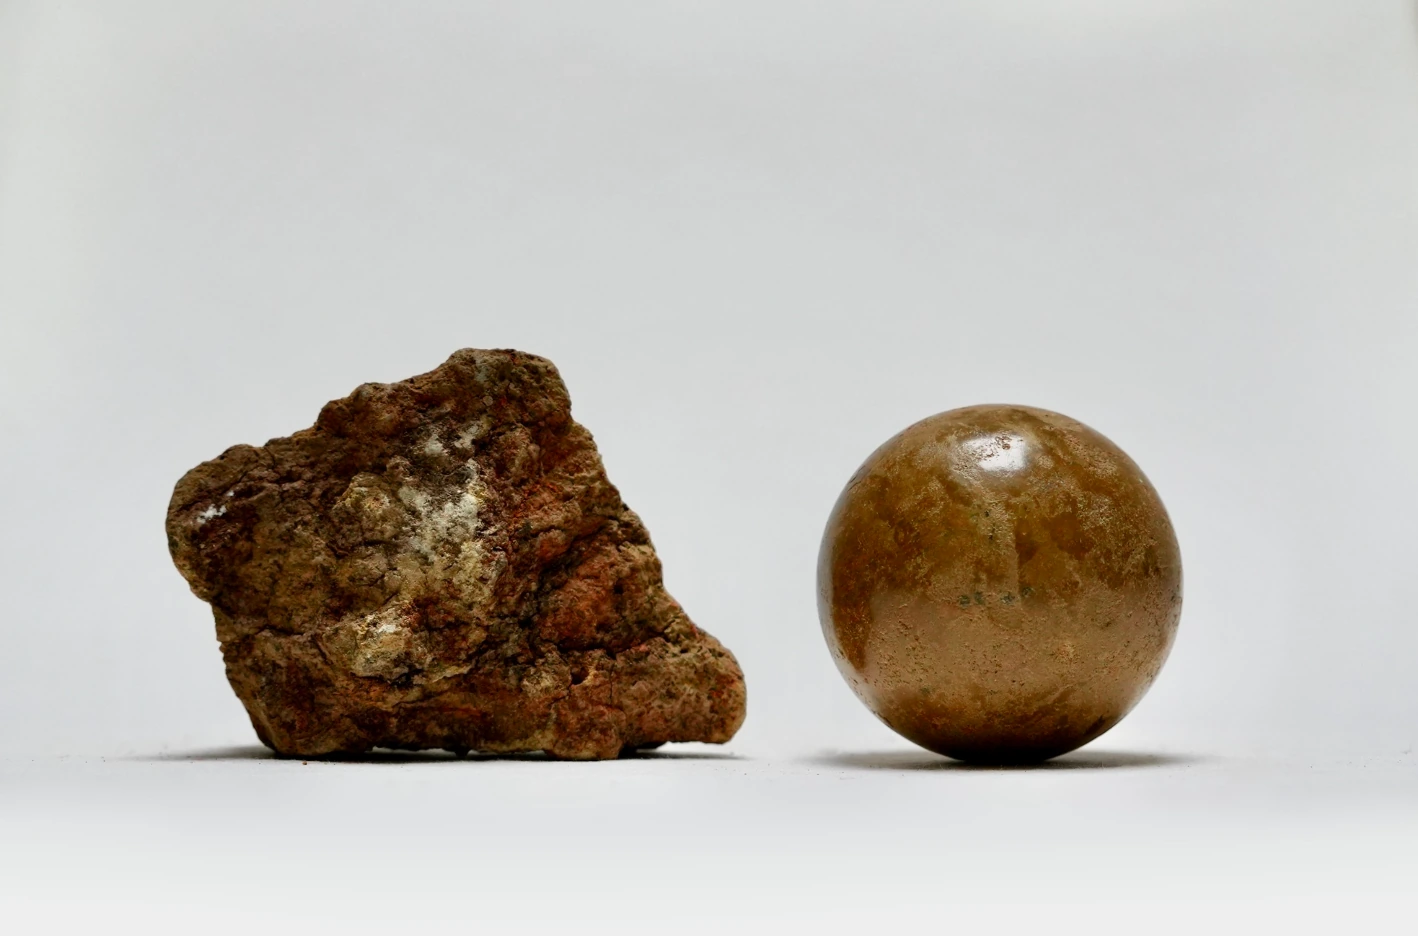
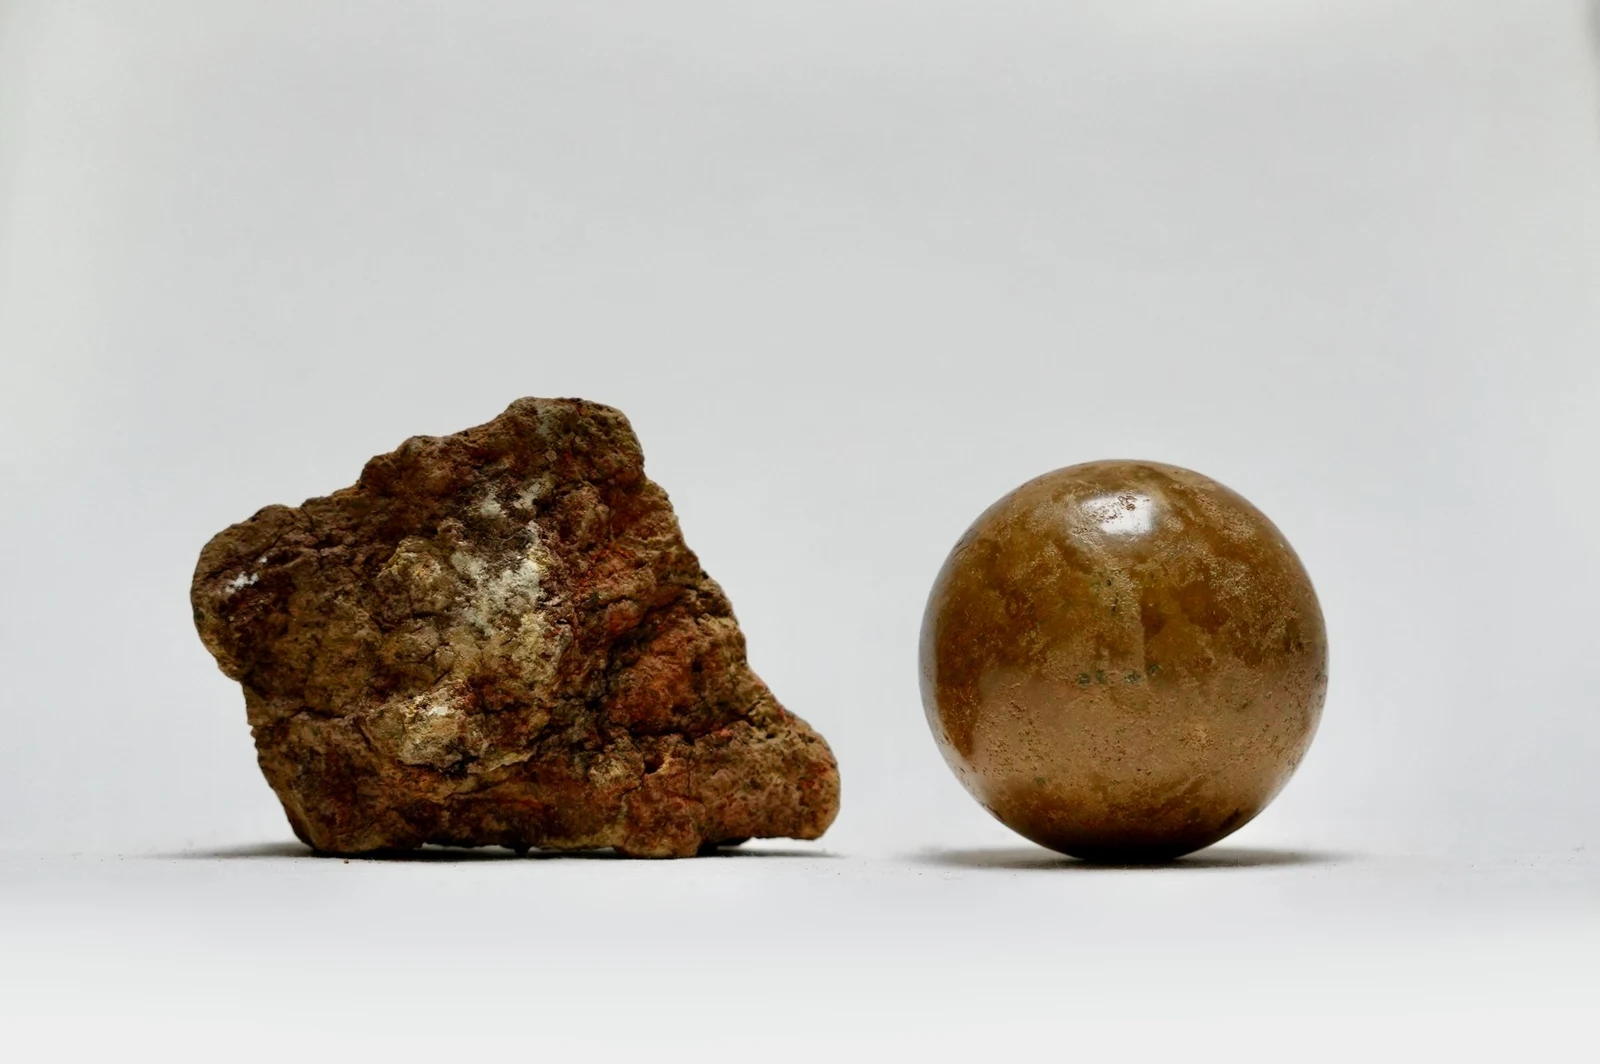
Add photos for Edie Evans's new works and high-res photos for her existing pieces
Correct Bedrock's height to 8cm and list the shiny fired pieces as London Clay
rather than burnished.

diff --git a/src/data/media.ts b/src/data/media.ts
@@ -16,9 +16,9 @@ export const mediaSlots: Record<string, MediaAsset> = {
   "james-galbraith-kirkpatrick-bowl": { src: "/assets/artworks/james-galbraith-kirkpatrick/bowl.webp", alt: "Stack of Bowls by James Galbraith Kirkpatrick", width: 682, height: 1178 },
   "james-galbraith-kirkpatrick-cup-i": { src: "/assets/artworks/james-galbraith-kirkpatrick/cup-i.webp", alt: "Cup I by James Galbraith Kirkpatrick, a short cup with a dark rim, patterned glaze and small foot", width: 684, height: 1178 },
   // Full product photos and the original portrait card crops have separate slots.
-  "edie-evans-earth-memory": { src: "/assets/artworks/edie-evans/earth-memory.webp", alt: "A rough rock beside a burnished clay sphere in Earth Memory by Edie Evans", width: 1418, height: 936 },
-  "edie-evans-bedrock": { src: "/assets/artworks/edie-evans/bedrock.webp", alt: "Bedrock by Edie Evans, a burnished clay bowl with an uneven rim", width: 1166, height: 770 },
-  "edie-evans-fragmentation-1": { src: "/assets/artworks/edie-evans/fragmentation-1.webp", alt: "Fragmentation 1 by Edie Evans, a reddish clay sphere with a cracked surface", width: 1482, height: 934 },
+  "edie-evans-earth-memory": { src: "/assets/artworks/edie-evans/earth-memory.webp", alt: "Earth Memory by Edie Evans, a rough rock of excavated earth beside a polished clay sphere", width: 1600, height: 1064 },
+  "edie-evans-bedrock": { src: "/assets/artworks/edie-evans/bedrock.webp", alt: "Bedrock by Edie Evans, a polished clay vessel with a deep hollow, seen from the side", width: 1600, height: 1064 },
+  "edie-evans-fragmentation-1": { src: "/assets/artworks/edie-evans/fragmentation-1.webp", alt: "Fragmentation 1 by Edie Evans, a red clay sphere whose cracked surface lifts away in flakes", width: 1600, height: 1064 },
   "edie-evans-earth-memory-card": { src: "/assets/artworks/edie-evans/earth-memory-card.webp", alt: "Portrait crop of the rock and sphere in Earth Memory by Edie Evans", width: 682, height: 1174 },
   "edie-evans-bedrock-card": { src: "/assets/artworks/edie-evans/bedrock-card.webp", alt: "Close-up of Bedrock by Edie Evans", width: 682, height: 1170 },
   "edie-evans-fragmentation-1-card": { src: "/assets/artworks/edie-evans/fragmentation-1-card.webp", alt: "Close-up of Fragmentation 1 by Edie Evans", width: 680, height: 1176 },
@@ -160,10 +160,22 @@ export const mediaSlots: Record<string, MediaAsset> = {
   "james-galbraith-kirkpatrick-large-bowl-card": { src: "/assets/artworks/james-galbraith-kirkpatrick/large-bowl-card.webp", alt: "Large Bowl by James Galbraith Kirkpatrick, two stacked stoneware bowls with a speckled cream glaze and grey leaf-like marks, in low sunlight", width: 944, height: 1600 },
   "james-galbraith-kirkpatrick-large-bowl-2": { src: "/assets/artworks/james-galbraith-kirkpatrick/large-bowl-2.webp", alt: "Large Bowl by James Galbraith Kirkpatrick, the stacked bowls from another side showing drips of pale glaze", width: 1320, height: 990 },
   "james-galbraith-kirkpatrick-large-bowl-3": { src: "/assets/artworks/james-galbraith-kirkpatrick/large-bowl-3.webp", alt: "Inside Large Bowl by James Galbraith Kirkpatrick, a crackled amber glaze with throwing rings", width: 1600, height: 1066 },
-  "edie-evans-dorodango-pair-ii": { src: null, alt: "Dorodango Pair II by Edie Evans", width: 1500, height: 1000 },
-  "edie-evans-dorodango-pair-i": { src: null, alt: "Dorodango Pair I by Edie Evans", width: 1500, height: 1000 },
-  "edie-evans-holding": { src: null, alt: "Holding by Edie Evans", width: 1500, height: 1000 },
-  "edie-evans-ground": { src: null, alt: "Ground by Edie Evans", width: 1500, height: 1000 },
+  "edie-evans-dorodango-pair-ii": { src: "/assets/artworks/edie-evans/dorodango-pair-ii.webp", alt: "Dorodango Pair II by Edie Evans, a polished clay sphere beside a square block with a round hollow, seen from above", width: 1600, height: 1064 },
+  "edie-evans-dorodango-pair-i": { src: "/assets/artworks/edie-evans/dorodango-pair-i.webp", alt: "Dorodango Pair I by Edie Evans, a polished clay sphere beside a rough lump of excavated earth", width: 1600, height: 1064 },
+  "edie-evans-holding": { src: "/assets/artworks/edie-evans/holding.webp", alt: "Holding by Edie Evans, a smooth polished clay ovoid resting low on a white surface", width: 1600, height: 1064 },
+  "edie-evans-ground": { src: "/assets/artworks/edie-evans/ground.webp", alt: "Ground by Edie Evans, a polished clay teardrop form resting on its side", width: 1600, height: 1064 },
+  "edie-evans-bedrock-2": { src: "/assets/artworks/edie-evans/bedrock-2.webp", alt: "Bedrock by Edie Evans, close-up of its hollow, showing the polished mottled surface", width: 1600, height: 1064 },
+  "edie-evans-fragmentation-1-2": { src: "/assets/artworks/edie-evans/fragmentation-1-2.webp", alt: "Fragmentation 1 by Edie Evans, seen from another side, showing the cracked plates", width: 1600, height: 1064 },
+  "edie-evans-dorodango-pair-ii-2": { src: "/assets/artworks/edie-evans/dorodango-pair-ii-2.webp", alt: "Dorodango Pair II by Edie Evans, the sphere and block seen from the side", width: 1600, height: 1064 },
+  "edie-evans-dorodango-pair-ii-card": { src: "/assets/artworks/edie-evans/dorodango-pair-ii-card.webp", alt: "Dorodango Pair II by Edie Evans, a polished clay sphere beside a square block with a round hollow, seen from above", width: 944, height: 1600 },
+  "edie-evans-dorodango-pair-i-2": { src: "/assets/artworks/edie-evans/dorodango-pair-i-2.webp", alt: "Dorodango Pair I by Edie Evans, close-up of the polished sphere", width: 1600, height: 1064 },
+  "edie-evans-dorodango-pair-i-card": { src: "/assets/artworks/edie-evans/dorodango-pair-i-card.webp", alt: "Dorodango Pair I by Edie Evans, a polished clay sphere beside a rough lump of excavated earth", width: 944, height: 1600 },
+  "edie-evans-holding-2": { src: "/assets/artworks/edie-evans/holding-2.webp", alt: "Holding by Edie Evans, seen from another side", width: 1600, height: 1064 },
+  "edie-evans-holding-card": { src: "/assets/artworks/edie-evans/holding-card.webp", alt: "Holding by Edie Evans, a smooth polished clay ovoid resting low on a white surface", width: 944, height: 1600 },
+  "edie-evans-ground-2": { src: "/assets/artworks/edie-evans/ground-2.webp", alt: "Ground by Edie Evans, seen from above", width: 1600, height: 1064 },
+  "edie-evans-ground-3": { src: "/assets/artworks/edie-evans/ground-3.webp", alt: "Ground by Edie Evans, close-up of its polished surface with a pale sheen", width: 1600, height: 1064 },
+  "edie-evans-ground-4": { src: "/assets/artworks/edie-evans/ground-4.webp", alt: "Ground by Edie Evans, close-up of the cracked pale sheen across its surface", width: 1600, height: 1064 },
+  "edie-evans-ground-card": { src: "/assets/artworks/edie-evans/ground-card.webp", alt: "Ground by Edie Evans, a polished clay teardrop form resting on its side", width: 944, height: 1600 },
   "eleanor-herbosch-painting-hover": { src: "/assets/artworks/eleanor-herbosch/painting-hover.webp", alt: "Painting detail by Eleanor Herbosch with dark branching marks and raised textures on a grey surface", width: 758, height: 954 },
 };
 

diff --git a/src/content/artworks/edie-evans/ground.md b/src/content/artworks/edie-evans/ground.md
@@ -5,14 +5,15 @@ slug: "ground"
 title: "Ground"
 artistName: "Edie Evans"
 dimensions: "10 x 9.5 x 8 cm"
-materials: "Burnished London Clay"
+materials: "London Clay"
 price: "£575"
 mainImage: {"slot":"edie-evans-ground"}
-gallery: []
+cardImage: {"slot":"edie-evans-ground-card"}
+gallery: [{"src":{"slot":"edie-evans-ground-2"},"alt":"Ground by Edie Evans, seen from above"},{"src":{"slot":"edie-evans-ground-3"},"alt":"Ground by Edie Evans, close-up of its polished surface with a pale sheen"},{"src":{"slot":"edie-evans-ground-4"},"alt":"Ground by Edie Evans, close-up of the cracked pale sheen across its surface"}]
 detailVariant: "figma-2026"
 year: 2026
-tileMedium: "Burnished Clay"
+tileMedium: "London Clay"
 relatedIds: ["edie-evans/bedrock","arran-gregory/meditation-balls","zahed-tajeddin/stillness","jihyun-kim/small-teoju"]
-seoDescription: "Ground, 2026 by Edie Evans. Burnished London Clay. Enquire with Golden Earth Studio about pricing and availability."
+seoDescription: "Ground, 2026 by Edie Evans. London Clay. Enquire with Golden Earth Studio about pricing and availability."
 sourceWpId: null
 ---

diff --git a/src/content/artworks/edie-evans/dorodango-pair-ii.md b/src/content/artworks/edie-evans/dorodango-pair-ii.md
@@ -5,14 +5,15 @@ slug: "dorodango-pair-ii"
 title: "Dorodango Pair II"
 artistName: "Edie Evans"
 dimensions: ""
-materials: "Burnished London Clay"
+materials: "London Clay"
 price: "£275"
 mainImage: {"slot":"edie-evans-dorodango-pair-ii"}
-gallery: []
+cardImage: {"slot":"edie-evans-dorodango-pair-ii-card"}
+gallery: [{"src":{"slot":"edie-evans-dorodango-pair-ii-2"},"alt":"Dorodango Pair II by Edie Evans, the sphere and block seen from the side"}]
 detailVariant: "figma-2026"
 year: 2026
-tileMedium: "Burnished Clay"
+tileMedium: "London Clay"
 relatedIds: ["edie-evans/bedrock","arran-gregory/meditation-balls","zahed-tajeddin/stillness","jihyun-kim/small-teoju"]
-seoDescription: "Dorodango Pair II, 2026 by Edie Evans. Burnished London Clay. Enquire with Golden Earth Studio about pricing and availability."
+seoDescription: "Dorodango Pair II, 2026 by Edie Evans. London Clay. Enquire with Golden Earth Studio about pricing and availability."
 sourceWpId: null
 ---

diff --git a/src/content/artworks/edie-evans/dorodango-pair-i.md b/src/content/artworks/edie-evans/dorodango-pair-i.md
@@ -5,14 +5,15 @@ slug: "dorodango-pair-i"
 title: "Dorodango Pair I"
 artistName: "Edie Evans"
 dimensions: ""
-materials: "Burnished London Clay"
+materials: "London Clay"
 price: "£275"
 mainImage: {"slot":"edie-evans-dorodango-pair-i"}
-gallery: []
+cardImage: {"slot":"edie-evans-dorodango-pair-i-card"}
+gallery: [{"src":{"slot":"edie-evans-dorodango-pair-i-2"},"alt":"Dorodango Pair I by Edie Evans, close-up of the polished sphere"}]
 detailVariant: "figma-2026"
 year: 2026
-tileMedium: "Burnished Clay"
+tileMedium: "London Clay"
 relatedIds: ["edie-evans/bedrock","arran-gregory/meditation-balls","zahed-tajeddin/stillness","jihyun-kim/small-teoju"]
-seoDescription: "Dorodango Pair I, 2026 by Edie Evans. Burnished London Clay. Enquire with Golden Earth Studio about pricing and availability."
+seoDescription: "Dorodango Pair I, 2026 by Edie Evans. London Clay. Enquire with Golden Earth Studio about pricing and availability."
 sourceWpId: null
 ---

diff --git a/src/content/artworks/edie-evans/holding.md b/src/content/artworks/edie-evans/holding.md
@@ -5,14 +5,15 @@ slug: "holding"
 title: "Holding"
 artistName: "Edie Evans"
 dimensions: ""
-materials: "Burnished London Clay"
+materials: "London Clay"
 price: "£575"
 mainImage: {"slot":"edie-evans-holding"}
-gallery: []
+cardImage: {"slot":"edie-evans-holding-card"}
+gallery: [{"src":{"slot":"edie-evans-holding-2"},"alt":"Holding by Edie Evans, seen from another side"}]
 detailVariant: "figma-2026"
 year: 2026
-tileMedium: "Burnished Clay"
+tileMedium: "London Clay"
 relatedIds: ["edie-evans/bedrock","arran-gregory/meditation-balls","zahed-tajeddin/stillness","jihyun-kim/small-teoju"]
-seoDescription: "Holding, 2026 by Edie Evans. Burnished London Clay. Enquire with Golden Earth Studio about pricing and availability."
+seoDescription: "Holding, 2026 by Edie Evans. London Clay. Enquire with Golden Earth Studio about pricing and availability."
 sourceWpId: null
 ---

diff --git a/src/content/artworks/edie-evans/bedrock.md b/src/content/artworks/edie-evans/bedrock.md
@@ -4,15 +4,15 @@ artistSlug: "edie-evans"
 slug: "bedrock"
 title: "Bedrock"
 artistName: "Edie Evans"
-dimensions: "8cm(l) x 12cm(w) x 6.5cm(h)"
+dimensions: "16.5cm(l) x 12cm(w) x 8cm(h)"
 materials: "London Clay"
 price: "£375"
 mainImage: {"slot":"edie-evans-bedrock"}
 cardImage: {"slot":"edie-evans-bedrock-card"}
-gallery: []
+gallery: [{"src":{"slot":"edie-evans-bedrock-2"},"alt":"Bedrock by Edie Evans, close-up of its hollow, showing the polished mottled surface"}]
 detailVariant: "figma-2026"
 year: 2026
-tileMedium: "Burnished Clay"
+tileMedium: "London Clay"
 relatedIds: ["jihyun-kim/teoju","zahed-tajeddin/bulls-matter","louis-vincent/bowl","rickie-cheuk/chopsticks"]
 seoDescription: "Bedrock, 2026 by Edie Evans. London Clay. Enquire with Golden Earth Studio about pricing and availability."
 sourceWpId: null

diff --git a/src/content/artworks/edie-evans/earth-memory.md b/src/content/artworks/edie-evans/earth-memory.md
@@ -12,7 +12,7 @@ cardImage: {"slot":"edie-evans-earth-memory-card"}
 gallery: []
 detailVariant: "figma-2026"
 year: 2026
-tileMedium: "Burnished Clay"
+tileMedium: "London Clay"
 relatedIds: ["jihyun-kim/teoju","zahed-tajeddin/bulls-matter","louis-vincent/bowl","rickie-cheuk/chopsticks"]
 seoDescription: "Earth Memory, 2026 by Edie Evans. London Clay. Enquire with Golden Earth Studio about pricing and availability."
 sourceWpId: null

diff --git a/src/content/artworks/edie-evans/fragmentation-1.md b/src/content/artworks/edie-evans/fragmentation-1.md
@@ -9,7 +9,7 @@ materials: "London Clay"
 price: "£175"
 mainImage: {"slot":"edie-evans-fragmentation-1"}
 cardImage: {"slot":"edie-evans-fragmentation-1-card"}
-gallery: []
+gallery: [{"src":{"slot":"edie-evans-fragmentation-1-2"},"alt":"Fragmentation 1 by Edie Evans, seen from another side, showing the cracked plates"}]
 detailVariant: "figma-2026"
 year: 2026
 tileMedium: "Ceramic"
